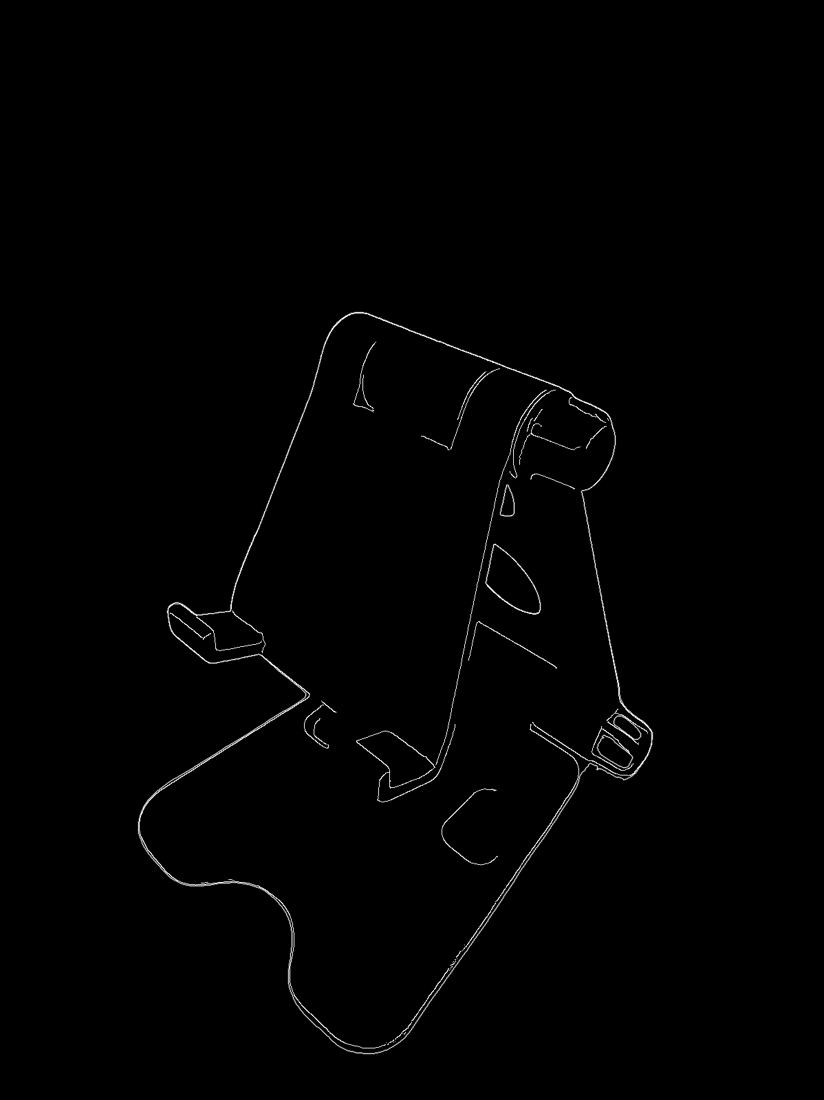
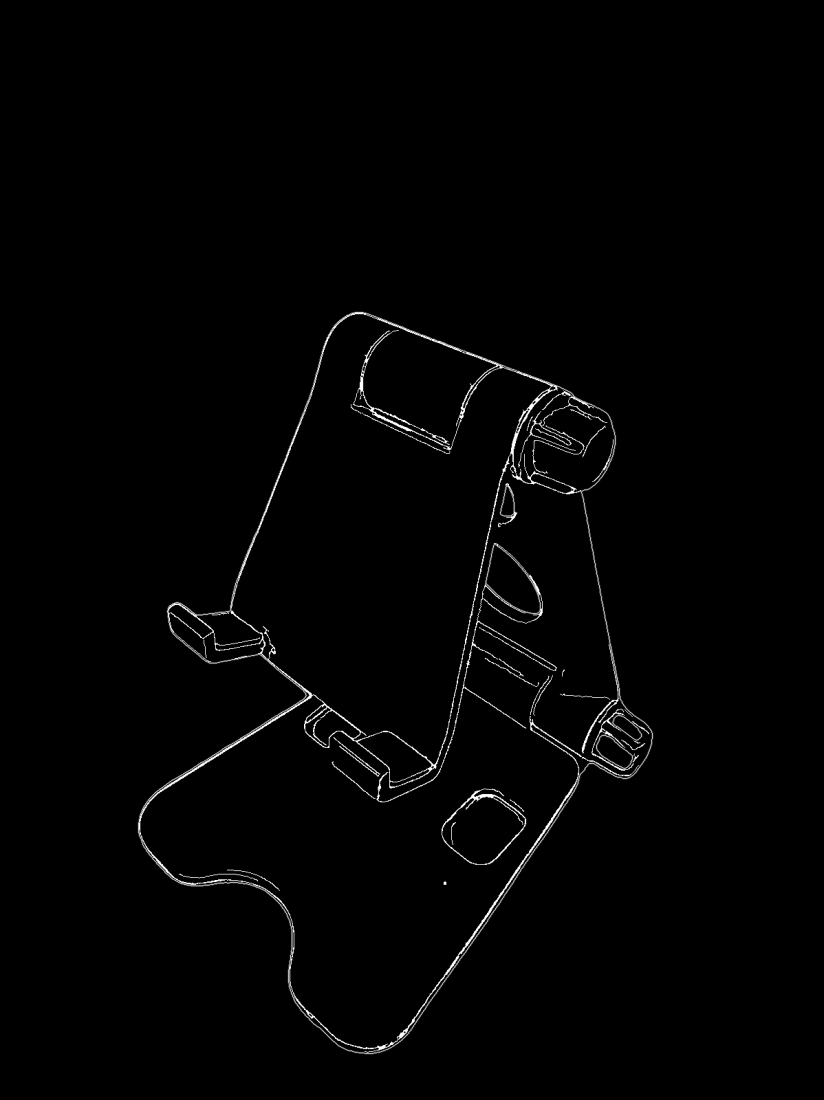
Draw outlines from brightness and color, and explain that in the README.
Each photo picks an edge sensitivity inside a safe range. Color lines stay more sensitive than brightness, and short specks are dropped. The README walks through Pillow, rembg with ISNet, and OpenCV in plain language. The sample outline screenshot matches those lines.

diff --git a/src/OutlineImage/outline.py b/src/OutlineImage/outline.py
@@ -21,6 +21,27 @@ OUTPUT_DIR_NAME = "output"
 DEFAULT_FORMAT = "png"
 MODEL_NAME = "isnet-general-use"
 MAX_EDGE = 1600
+# A soft alpha fringe is not part of the object.
+ALPHA_THRESHOLD = 24
+MIN_OUTLINE_AREA = 50
+# Each photo picks its own edge cut inside this band.
+# Flat plastic stays near the low end, so a seam still draws.
+# A scuffed or contrasty photo stays near the high end, so the scuffs stay out.
+# Color stays lower than brightness: a hole can match the object in
+# brightness and still differ in color. requirement-domain-outlineimage.
+BRIGHT_LOW_FLOOR = 14
+BRIGHT_LOW_CAP = 32
+BRIGHT_HIGH_FLOOR = 40
+BRIGHT_HIGH_CAP = 80
+COLOR_LOW_FLOOR = 6
+COLOR_LOW_CAP = 14
+COLOR_HIGH_FLOOR = 16
+COLOR_HIGH_CAP = 40
+BRIGHT_EDGE_SIGMA = 36
+COLOR_EDGE_SIGMA = 22
+BRIGHT_SPECK = 22
+COLOR_SPECK = 10
+EDGE_SPECK = 12
 
 
 def list_subfolders(folder):
@@ -207,12 +228,99 @@ def _image_stack():
     return cv2, np, Image, new_session, remove
 
 
+def _drop_short_edges(cv2, np, edges, min_area):
+    """Drop edge specks shorter than min_area. Real seams are longer."""
+    count, labels, stats, _centers = cv2.connectedComponentsWithStats(edges, 8)
+    kept = np.zeros_like(edges)
+    for index in range(1, count):
+        if stats[index, cv2.CC_STAT_AREA] >= min_area:
+            kept[labels == index] = 255
+    return kept
+
+
+def _foreground_mask(cv2, alpha):
+    """Binary object mask. A one-pixel close and open removes alpha pinholes."""
+    _level, mask = cv2.threshold(alpha, ALPHA_THRESHOLD, 255, cv2.THRESH_BINARY)
+    kernel = cv2.getStructuringElement(cv2.MORPH_ELLIPSE, (3, 3))
+    mask = cv2.morphologyEx(mask, cv2.MORPH_CLOSE, kernel)
+    mask = cv2.morphologyEx(mask, cv2.MORPH_OPEN, kernel)
+    return mask
+
+
+def _edge_limits(cv2, np, blurred, inner, low_floor, high_floor, low_cap, high_cap):
+    """Cut for this photo, kept inside the band.
+
+    OpenCV Canny compares its cuts to a Sobel gradient, so the same Sobel
+    on the foreground picks the cut. A quiet surface gets the low end.
+    A busy surface gets the high end.
+    """
+    gradient_x = cv2.Sobel(blurred, cv2.CV_32F, 1, 0, ksize=3)
+    gradient_y = cv2.Sobel(blurred, cv2.CV_32F, 0, 1, ksize=3)
+    magnitude = np.abs(gradient_x) + np.abs(gradient_y)
+    values = magnitude[inner > 0]
+    if values.size == 0:
+        return float(low_floor), float(high_floor)
+    high = float(np.percentile(values, 90))
+    low = high * 0.40
+    low = float(np.clip(low, low_floor, low_cap))
+    high = float(np.clip(max(high, low + 8.0), high_floor, high_cap))
+    return low, high
+
+
+def _channel_edges(cv2, np, plane, mask, inner, band, sigma, min_area):
+    """Canny on one channel. Outside the object is filled so the rim is not an edge."""
+    foreground = plane[mask > 0]
+    if foreground.size == 0:
+        return np.zeros(mask.shape, np.uint8)
+    filled = plane.copy()
+    filled[mask == 0] = int(np.median(foreground))
+    blurred = cv2.bilateralFilter(filled, d=5, sigmaColor=sigma, sigmaSpace=sigma)
+    low, high = _edge_limits(cv2, np, blurred, inner, *band)
+    found = cv2.Canny(blurred, low, high)
+    found = cv2.bitwise_and(found, inner)
+    return _drop_short_edges(cv2, np, found, min_area)
+
+
+def _detail_edges(cv2, np, bgr, mask):
+    """Inner lines from brightness and from color.
+
+    The cut follows this photo. A gray hole in a bright object can share a
+    brightness and still differ in color, so the color band stays lower.
+    """
+    lab = cv2.cvtColor(bgr, cv2.COLOR_BGR2LAB)
+    kernel = cv2.getStructuringElement(cv2.MORPH_ELLIPSE, (3, 3))
+    inner = cv2.erode(mask, kernel)
+    bright_band = (
+        BRIGHT_LOW_FLOOR, BRIGHT_HIGH_FLOOR, BRIGHT_LOW_CAP, BRIGHT_HIGH_CAP,
+    )
+    color_band = (
+        COLOR_LOW_FLOOR, COLOR_HIGH_FLOOR, COLOR_LOW_CAP, COLOR_HIGH_CAP,
+    )
+    edges = _channel_edges(
+        cv2, np, lab[:, :, 0], mask, inner,
+        bright_band, BRIGHT_EDGE_SIGMA, BRIGHT_SPECK,
+    )
+    for channel in (1, 2):
+        edges = cv2.bitwise_or(
+            edges,
+            _channel_edges(
+                cv2, np, lab[:, :, channel], mask, inner,
+                color_band, COLOR_EDGE_SIGMA, COLOR_SPECK,
+            ),
+        )
+    edges = cv2.morphologyEx(edges, cv2.MORPH_CLOSE, kernel)
+    edges = cv2.bitwise_and(edges, inner)
+    return _drop_short_edges(cv2, np, edges, EDGE_SPECK)
+
+
 def extract_detailed_outline(image_path, output_dir, session, output_format, stack):
     """
     General Purpose: Outer and inner outlines on a black canvas.
 
     output_format is an extension without a dot. The file name is
-    <stem>_detailed_outline.<ext> inside output_dir.
+    <stem>_detailed_outline.<ext> inside output_dir. Brightness edges and
+    color edges are both drawn. The cut follows the photo, so a part that
+    matches the object in brightness still appears.
     """
     cv2, np, Image, _new_session, remove = stack
     ext = output_format.lstrip(".").lower()
@@ -226,19 +334,16 @@ def extract_detailed_outline(image_path, output_dir, session, output_format, sta
     img_rgba = np.array(cutout)
     img_bgra = cv2.cvtColor(img_rgba, cv2.COLOR_RGBA2BGRA)
     height, width = img_bgra.shape[:2]
-    alpha = img_bgra[:, :, 3]
-    _threshold, fg_mask = cv2.threshold(alpha, 20, 255, cv2.THRESH_BINARY)
+    fg_mask = _foreground_mask(cv2, img_bgra[:, :, 3])
     silhouette_contours, _hierarchy = cv2.findContours(
         fg_mask, cv2.RETR_LIST, cv2.CHAIN_APPROX_SIMPLE
     )
     silhouette_contours = [
-        contour for contour in silhouette_contours if cv2.contourArea(contour) > 50
+        contour
+        for contour in silhouette_contours
+        if cv2.contourArea(contour) > MIN_OUTLINE_AREA
     ]
-    gray = cv2.cvtColor(img_bgra[:, :, :3], cv2.COLOR_BGR2GRAY)
-    gray = cv2.bitwise_and(gray, gray, mask=fg_mask)
-    blurred = cv2.bilateralFilter(gray, d=7, sigmaColor=50, sigmaSpace=50)
-    edges = cv2.Canny(blurred, threshold1=40, threshold2=120)
-    edges = cv2.bitwise_and(edges, edges, mask=fg_mask)
+    edges = _detail_edges(cv2, np, img_bgra[:, :, :3], fg_mask)
     canvas = np.zeros((height, width), dtype=np.uint8)
     canvas = cv2.bitwise_or(canvas, edges)
     cv2.drawContours(

diff --git a/tests/test_docs.py b/tests/test_docs.py
@@ -21,6 +21,7 @@ RELATED = (
 HEADINGS = (
     "Features",
     "Advantages",
+    "How an outline is made",
     "Quick Installation",
     "Usage",
     "Screenshots",

diff --git a/README.md b/README.md
@@ -29,6 +29,64 @@ On a terminal, starting it with no arguments opens a text menu. The menu does no
 2. **Built-in languages.** Row **4** lists thirteen languages: English, Simplified Chinese, Traditional Chinese, Spanish, Arabic, French, Portuguese, Russian, German, Japanese, Korean, Dutch, and Greek. The choice is saved for the next run. The note on row 1 follows the menu language.
 3. **Lifecycle and diagnostics.** `version-check`, `self-update`, `self-install`, and `self-uninstall` are menu rows **84**–**87** and typed verbs. `self-uninstall` on the command line needs `--force`. They call pip and do not use root. **system-log** (**3**) views a log, clears a log, and shows the log folder. **about** (**83**) stays in English.
 
+## How an outline is made
+
+An outline here is a new picture: white lines on a black background. The lines follow the shape of the object, and they also follow the parts you can see on it, such as a hole, a ridge, a seam, a pad, or a slot. The file is written in an `output` folder next to the photo. Its name is the photo's name plus `_detailed_outline`.
+
+Four libraries do this work. They install with the program. You do not open them yourself.
+
+**Pillow** opens the photo. A phone photo is often larger than the line drawing needs to be. If the long side is longer than 1600 pixels, Pillow shrinks the photo until that side is 1600. The shrink uses Lanczos resampling, which keeps a real edge from turning into a smear.
+
+**rembg** cuts the object out of the background. It uses a small neural network named **ISNet general-use** (`isnet-general-use`). The network looks at the photo and decides, pixel by pixel, which pixels belong to the object and which pixels are the table, the wall, or anything else behind it. The result is the same photo with a transparent background. The first conversion may download that model. Later conversions use the copy already on the computer.
+
+**NumPy** holds those pixels as a grid of numbers, so the next step can measure them.
+
+**OpenCV** finds the lines and draws them. It is a computer-vision library. The outer shape comes from the transparent cutout: OpenCV traces the boundary of the object and draws that boundary as a thin white line. A hole is traced too when the cutout is actually transparent there. A blob only a few pixels across is left out.
+
+### What the program looks for inside the object
+
+The program looks at color as well as brightness. A hole in bright plastic can be about as light as the plastic, so a test that only asks "is this darker?" misses the rim. The rim is still a different color.
+
+OpenCV converts the cutout into a color system called **CIELAB**, often shortened to LAB. Each pixel becomes three plain facts:
+
+- how light or dark it is (brightness)
+- where it sits between green and red
+- where it sits between blue and yellow
+
+The last two are color, kept apart from brightness. The program searches for a sharp change in brightness, then searches again for a sharp change in each color fact. A part that matches the object in brightness can still be drawn when its color differs. The color search is allowed to be more sensitive than the brightness search, because a same-brightness color change is often a real part, such as a hole rim or a seam. On the phone stand in the Screenshots section, that is what keeps the hole, the knob ridges, the pads, and the hinge seam in the drawing.
+
+Before that search, the area outside the object is filled with a typical color of the object. The outer shape is then drawn once, from the cutout, and the inner search stays one pixel inside the object so it does not draw that same rim a second time.
+
+The surface is smoothed a little with a **bilateral filter**. That filter softens grain, dust, and the fine texture of the material, and it tries to leave a real seam sharp. Brightness is smoothed a bit more than color.
+
+### How sensitive each photo is
+
+The line finder is the **Canny** method in OpenCV. Canny keeps a pixel when the change there is strong enough, and it links those pixels into a line. Two numbers tell it what "strong enough" means. A lower pair draws faint lines. A higher pair ignores them.
+
+One pair for every photo is a poor fit. A plain surface needs a sensitive setting, or a hinge seam disappears. A scratched photo needs a cautious setting, or every scuff becomes a line.
+
+Each photo therefore picks its own pair, and the pick stays inside a safe range. OpenCV's **Sobel** filter measures how fast the picture changes from one pixel to the next. The program looks at those measurements on the object only, and it takes a high point in that list: the 90th percentile, stronger than about nine tenths of the pixels and weaker than the strongest scratches. The high cut starts from that point. The low cut is forty percent of the high cut. Both cuts are then clipped so they cannot leave the safe range. A quiet surface lands on the sensitive end, so a faint seam still appears. A busy or high-contrast photo lands on the cautious end, so scuffs stay out. The safe range for color sits lower than the safe range for brightness.
+
+### Cleaning the lines
+
+A real seam is a run of pixels. A speck of dust is a few pixels. OpenCV groups touching edge pixels, which are called connected components, and drops a group that is shorter than a real seam. That cleanup runs for the brightness lines, for the color lines, and once more after the lines are combined.
+
+A closing step then fills a one-pixel break, so a seam does not fall into dashes. Tiny holes in the cutout's transparency are filled the same way, and tiny spikes of transparency are removed, so a speck of background does not become a fake hole. Pixels that are only faintly transparent are treated as outside the object.
+
+The white lines and the outer shape are combined on a black picture and saved. The usual file is PNG.
+
+### What was changed so the lines improved
+
+The first drawing looked only at brightness. It used one Canny setting for every photo, with cuts at 40 and 120, after a stronger smooth. On a bright object, a hole, a knob ridge, a hinge seam, or a pad can be as light as the plastic around it. Those parts dropped out. Small dirt marks could remain, because short specks were kept.
+
+Three changes are what the program uses now.
+
+1. **Color as well as brightness.** The two LAB color facts are searched too, and their safe range stays more sensitive than brightness. A part that matches the plastic in brightness still gets a line when its color differs.
+2. **A sensitivity that follows the photo.** The Sobel measurement replaces the single pair of cuts. A plain surface is more sensitive. A scratched surface is less sensitive. Both stay inside the safe range.
+3. **Specks are thrown away.** Short edge fragments are dropped. Dust and a one-pixel sparkle stay out of the drawing. A one-pixel gap in a real seam is closed.
+
+A line is drawn where the photo itself changes. When a rim matches the plastic in both brightness and color, the photo has no edge there, and a short gap can remain. The program leaves that gap. Guessing a circle or an oval on those gaps was tried and was not kept: a guessed oval replaced a real slot and cut across real ridges. The drawing stays with the edges the photo actually has.
+
 ## Quick Installation
 
 **Python dependencies:** `ChronicleLogger>=1.3.1`, `numpy>=2.3.0`, `Pillow>=12.1.0`, `opencv-python-headless>=5.0.0.93`, and `rembg>=2.0.85` (required). Pip installs them with OutlineImage. The first outline run may download the `isnet-general-use` model. No external media tool is required.
@@ -363,4 +421,4 @@ MIT — see [`LICENSE.md`](./LICENSE.md). Also declared in `pyproject.toml`.
 
 ## Last Update
 
-2026-10-05 — **1.0.0**. The public source is `https://github.com/cloudgen/OutlineImage`. The package name is **OutlineImage** and the console script is `outline-image`. `outline` writes a detailed outline image for each picture in a folder. The default file is PNG in that folder's `output` directory. Menu row 1 lists **1** current folder, each subfolder, and **0** back, then runs that conversion. The Screenshots section shows captures of this program. Version badge matches `pyproject.toml` and `__version__`. `ChronicleLogger>=1.3.1`, `numpy>=2.3.0`, `Pillow>=12.1.0`, `opencv-python-headless>=5.0.0.93`, and `rembg>=2.0.85` are required.
+2026-10-07 — **1.0.0**. The public source is `https://github.com/cloudgen/OutlineImage`. The package name is **OutlineImage** and the console script is `outline-image`. `outline` writes a detailed outline image for each picture in a folder. The default file is PNG in that folder's `output` directory. The lines come from brightness and from color, short specks are dropped, and each photo picks its own sensitivity inside a safe range. How an outline is made explains that method in plain language. Menu row 1 lists **1** current folder, each subfolder, and **0** back, then runs that conversion. The Screenshots section shows captures of this program. Version badge matches `pyproject.toml` and `__version__`. `ChronicleLogger>=1.3.1`, `numpy>=2.3.0`, `Pillow>=12.1.0`, `opencv-python-headless>=5.0.0.93`, and `rembg>=2.0.85` are required.

diff --git a/docs/requirements/requirement-python-readme.md b/docs/requirements/requirement-python-readme.md
@@ -1,5 +1,5 @@
 **file**: docs/requirements/requirement-python-readme.md
-**Status**: Active (Version 1.0.3)
+**Status**: Active (Version 1.0.4)
 **Area**: python
 **Key**: `requirement-python-readme`
 **Philosophy**: CIAO **v2.10.2** / CIAO-Lite (Caution • Intentional • Anti-fragile • Over-engineered / Over-protect)
@@ -55,6 +55,7 @@ Each behavioral sentence **MUST** match its owner and **MUST NOT** restate that 
 | Claim in the document | Owner |
 |-----------------------|--------|
 | Folder conversion, default png, `<folder>/output` | `requirement-domain-outlineimage` |
+| How an outline is drawn: Pillow, rembg `isnet-general-use`, OpenCV brightness and color, a sensitivity per photo, speck removal, and no guessed shape | `requirement-domain-outlineimage` |
 | No encoder | `requirement-video-ffmpeg-pipeline` is Retired |
 | Menu picture, path row, clock, row numbers | `requirement-python-tui` |
 | Thirteen languages and what stays English | `requirement-python-cli-language` |
@@ -108,12 +109,13 @@ The first-row sentence in the user document **MUST** name the current directory 
 
 **Opening:** write a detailed outline image for each picture in a folder. The default file is PNG, in an `output` folder next to those pictures. On a terminal with no arguments, the text menu opens. The menu does not convert images by itself and does not call pip.
 
-**Sections, in order.** Advantages is inserted after Features. Screenshots is inserted after Usage. The other headings keep the existing kit order.
+**Sections, in order.** Advantages is inserted after Features. How an outline is made is inserted after Advantages. Screenshots is inserted after Usage. The other headings keep the existing kit order.
 
 | Heading | What this document must keep | Owner of the behavior |
 |---------|------------------------------|------------------------|
 | Features | Text menu: outline, system-log, language, self-management, Exit. Path and a local clock on the first row. Row 1 lists the current folder, each subfolder, and back. system-log is **3**. language is **4**. self-management is **8**. Verbs `help`, `version`, `about`, `outline`, `self-install`, `version-check`, `self-update`, `self-uninstall`. Checkout entry `./convert.py` | Peers in §2.2. The path-row sentence is the clock rule in §2.2 |
 | Advantages | The four parts and the comparison table below | This file for the contrast. Peers in §2.2 for the behavior |
+| How an outline is made | Plain language for the method in `requirement-domain-outlineimage`: Pillow shrinks the long side to 1600, rembg with `isnet-general-use` cuts the object out, NumPy holds the pixels, and OpenCV draws the outer shape plus inner lines from brightness and from color (CIELAB). Canny uses a Sobel measurement so each photo picks a sensitivity inside a safe range. Color stays more sensitive than brightness. Short specks are dropped. A rim that matches the object in brightness and color can keep a short gap. A guessed circle or oval is not used | `requirement-domain-outlineimage` for the method. This file for the section |
 | Quick Installation | `ChronicleLogger>=1.3.1`, `numpy>=2.3.0`, `Pillow>=12.1.0`, `opencv-python-headless>=5.0.0.93`, and `rembg>=2.0.85`. `pip install OutlineImage`. No external media tool. Checkout uses a venv and `pip install -e .`. The fenced text menu (front, system-log, language, self-management) stays in this section and shows row 1 **outline** and version **1.0.0** | `requirement-python-dependency-management`, `requirement-runtime-prerequisites`, `requirement-python-packaging`, `requirement-python-tui` |
 | Usage | Menu versus typed verbs. `outline` converts a folder and does not draw the menu. Menu row 1 lists the current folder, each subfolder, and back. Default PNG in that folder's `output` directory. No terminal: empty argv prints help and returns 0. `self-uninstall` needs `--force`. No sudo | `requirement-python-cli-interface`, `requirement-domain-outlineimage`, `requirement-python-tui` |
 | Screenshots | Lead: each heading is the file name, and the paragraph is what that picture shows. Package **1.0.0**. The paragraph and the image alt are the catalog below. The menu pictures are captures of this program. Row 1 is **outline** | This file |
@@ -122,7 +124,7 @@ The first-row sentence in the user document **MUST** name the current directory 
 | Related Projects | The eight lines below, in that order, each with one sentence | This file |
 | Contributing | Keep product law in sync. The conversion lives in `src/OutlineImage/outline.py`. Version strings stay together | `requirement-python-coding-style`, `requirement-python-packaging` |
 | License | MIT, link `LICENSE.md`, and that file exists | `requirement-python-packaging` |
-| Last Update | Names package **1.0.0**, the public source `https://github.com/cloudgen/OutlineImage`, the outline conversion, and that the Screenshots section shows captures of this program | This file for the line. `__version__` for the string |
+| Last Update | Names package **1.0.0**, the public source `https://github.com/cloudgen/OutlineImage`, the outline conversion, that lines use brightness and color with a per-photo sensitivity, and that the Screenshots section shows captures of this program | This file for the line. `__version__` for the string |
 
 **Related projects, in this order.** The first two are this program. Each line is one sentence. Do not add an install recipe.
 
@@ -211,7 +213,7 @@ The documented install is for this login. **This requirement:** the user documen
 
 ## 5. Definition of done
 
-1. `README.md` has the sections in §2.5, in that order, including Advantages after Features and Screenshots after Usage.
+1. `README.md` has the sections in §2.5, in that order, including Advantages after Features, How an outline is made after Advantages, and Screenshots after Usage.
 2. The Version badge token matches the package string.
 3. The Screenshots section links every PNG in `screenshots/`, in catalog order, including `source-photo.png` and `outline-result.png`. Each image destination is an absolute `https` URL. Each heading is the basename. Each paragraph and each image alt are the catalog cells for that file.
 4. The path-row sentence names the local clock.
@@ -255,9 +257,10 @@ The documented install is for this login. **This requirement:** the user documen
 | 2026-10-04 | Active 1.0.1 | About and self-management pictures match the new page. Other menu pictures still show **1.0.4**. Package string is **1.0.5** |
 | 2026-10-05 | Active 1.0.2 | Quick Installation names the five pip floors. Product version stays **1.0.0** |
 | 2026-10-05 | Active 1.0.3 | Public source is `https://github.com/cloudgen/OutlineImage`. Twenty captures of this program replace the previous-product pictures. Product version stays **1.0.0** |
+| 2026-10-07 | Active 1.0.4 | How an outline is made explains the drawing method in plain language. Product version stays **1.0.0** |
 
 ---
 
-**Last Updated**: 2026-10-05
+**Last Updated**: 2026-10-07
 **Owner**: project maintainers
 **Alignment**: Registry `docs/requirements/index.md`; **CIAO** (https://github.com/cloudgen/ciao); CIAO-Lite (https://github.com/cloudgen/ciao-lite).

diff --git a/docs/requirements/requirement-domain-outlineimage.md b/docs/requirements/requirement-domain-outlineimage.md
@@ -1,5 +1,5 @@
 **file**: docs/requirements/requirement-domain-outlineimage.md
-**Status**: Active (Version 1.3.2)
+**Status**: Active (Version 1.3.3)
 **Area**: domain
 **Key**: `requirement-domain-outlineimage`
 **Philosophy**: CIAO **v2.10.2** / CIAO-Lite (Caution • Intentional • Anti-fragile • Over-engineered / Over-protect)
@@ -66,6 +66,14 @@ Supported inputs, top level only, are `.webp`, `.png`, `.jpg`, and `.jpeg`. Subf
 **Missing folder or bad format:** return 1 and a next-step line. A failure on one image **MUST** be reported and **MUST NOT** stop the remaining images. Any image failure makes the exit code 1. The last line of a run that wrote or tried to write is `Outlines saved in:` plus the output directory.
 
 **Model:** `isnet-general-use`. The longest edge used for the conversion is 1600. The model loads only when the folder has a supported image. The first such run may download that model. A missing image library **MUST** name the pip next step and return 1.
+
+**How the lines are drawn.** This file owns the method. Pillow opens the picture and, when the longest side is longer than 1600, shrinks it. rembg with `isnet-general-use` cuts the object out of the background. OpenCV traces that cutout for the outer shape. A hole is traced when the cutout is transparent there. A very small blob is left out.
+
+Inner lines come from brightness and from color. The cutout is split into lightness and two color channels (CIELAB). A part that matches the object in brightness can still be drawn when its color differs. The color pass stays more sensitive than the brightness pass. The area outside the object is filled with a typical object color before the search, and the search stays inside the object, so the outer shape is drawn once.
+
+Each photo picks its own sensitivity inside a fixed safe range. The range numbers live next to `MAX_EDGE` in `outline.py`. They are not frozen in this file. The program measures how much the foreground already changes from pixel to pixel (a Sobel gradient, then a high percentile of that change). A quiet surface uses the sensitive end of the range, so a faint seam still appears. A scratched or high-contrast photo uses the cautious end, so scuffs stay out. Short specks are dropped. One-pixel breaks in a real seam are closed.
+
+The program draws a line where the photo itself changes. It **MUST NOT** invent a circle, an ellipse, or any other guessed shape to close a gap. A rim that matches the object in both brightness and color may keep a short gap. The root user document explains this method in plain language. The words there match this paragraph.
 
 **Waiting sentence:** This file owns the words. Before converting images, and before downloading the model when that download is about to start, the operator sees one English sentence: `{choice} has been selected. {process} takes time to finish.` The process words are `Converting images` and `Downloading the AI model`. Those process words stay English when the menu language is Chinese. The choice token is the typed verb `outline`, the script name `convert.py`, or the folder-board short: `current` when the pick is `.`, otherwise the child directory name.
 
@@ -172,6 +180,7 @@ On Termux, Git Bash, Windows cmd, or the same class, `outline` and the menu run 
 6. Import the image stack when the chosen folder has no supported image.
 7. Start a conversion or a model fetch without the waiting sentence in pillar A, show a download sentence when the weights file is already a file, show either sentence for an empty folder, a missing folder, a rejected format, or a failed output-directory create, or store the sentence in a module-level constant.
 8. Leave the please-wait bullet on the result, show it when no waiting sentence was shown, or store that bullet line in a module-level constant.
+9. Replace a detected edge with a fitted circle or ellipse, or draw a guessed shape across a gap. A rim that matches the object in both brightness and color may keep a short gap.
 
 **Violating this rule is a critical domain regression.**
 
@@ -229,9 +238,10 @@ On Termux, Git Bash, Windows cmd, or the same class, `outline` and the menu run 
 | 2026-10-05 | Active 1.3.0 | The domain is a detailed outline image. Typed `outline` and menu row 1. Product version **1.0.0** |
 | 2026-10-05 | Active 1.3.1 | Waiting sentence before converting images and before a model download. Product version stays **1.0.0** |
 | 2026-10-05 | Active 1.3.2 | A flashing `• please wait` bullet stays while that process runs and is removed when it finishes. Product version stays **1.0.0** |
+| 2026-10-07 | Active 1.3.3 | Lines come from brightness and color. Each photo picks a sensitivity inside a safe range. Short specks are dropped. A guessed circle or ellipse is refused. Product version stays **1.0.0** |
 
 ---
 
-**Last Updated**: 2026-10-05
+**Last Updated**: 2026-10-07
 **Owner**: project maintainers
 **Alignment**: Registry `docs/requirements/index.md`; **CIAO** (https://github.com/cloudgen/ciao); CIAO-Lite (https://github.com/cloudgen/ciao-lite).

diff --git a/docs/requirements/index.md b/docs/requirements/index.md
@@ -3,12 +3,12 @@
 **Product:** OutlineImage (Python CLI — text menu on a terminal; `outline` writes a detailed outline image for each picture in a chosen folder, default PNG in that folder's `output` directory; menu row 1 picks the current folder or a subfolder)
 **Workspace state:** Specialized product law (left genesis); **software-development** class; **pip/local package** install (not shell online Type O).
 **Product version:** **1.0.0** (align `pyproject.toml`, `__init__.__version__`, root `README.md` Version badge)
-**Updated:** 2026-10-05
+**Updated:** 2026-10-07
 
 | ID / key | Title | Area | Status | Path | Updated |
 |----------|-------|------|--------|------|---------|
 | requirement-class-software-dev | Software-development class law + residual stack (Python, setuptools) | class | Active | `requirement-class-software-dev.md` | 2026-10-05 |
-| requirement-domain-outlineimage | Domain surface SSOT (typed `outline`, folder board on menu row 1, help, about, waiting sentence and a flashing please-wait bullet before converting images and before a model download) | domain | Active | `requirement-domain-outlineimage.md` | 2026-10-05 |
+| requirement-domain-outlineimage | Domain surface SSOT (typed `outline`, folder board on menu row 1, help, about, waiting sentence and a flashing please-wait bullet before converting images and before a model download; lines from brightness and color, sensitivity per photo, no guessed shape) | domain | Active | `requirement-domain-outlineimage.md` | 2026-10-07 |
 | requirement-python-about | About page: identity, host check, star box. No `--json` | python | Active | `requirement-python-about.md` | 2026-10-05 |
 | requirement-video-ffmpeg-pipeline | Retired. No encoder, no concat, no media publish | video | Retired | `requirement-video-ffmpeg-pipeline.md` | 2026-10-05 |
 | requirement-python-cli-interface | CLI entry, typed verbs, empty-argv menu on a terminal and help off a terminal. `outline` and `./convert.py` print the waiting sentence, flash please wait on a terminal, and erase that bullet when the work finishes | python | Active | `requirement-python-cli-interface.md` | 2026-10-05 |
@@ -20,7 +20,7 @@
 | requirement-python-packaging | `pyproject.toml` / version / console script. Pip strings point at the dependency file | python | Active | `requirement-python-packaging.md` | 2026-10-05 |
 | requirement-python-dependency-management | Pip strings: `ChronicleLogger>=1.3.1`, `numpy>=2.3.0`, `Pillow>=12.1.0`, `opencv-python-headless>=5.0.0.93`, `rembg>=2.0.85`. No GUI `opencv-python`. No menu wheel | python | Active | `requirement-python-dependency-management.md` | 2026-10-05 |
 | requirement-python-project-structure | Repository and `src/OutlineImage` layout (running tree vs target map) | python | Active | `requirement-python-project-structure.md` | 2026-10-04 |
-| requirement-python-readme | Root user document: sections, badges, picture catalog, related projects | python | Active | `requirement-python-readme.md` | 2026-10-05 |
+| requirement-python-readme | Root user document: sections, badges, picture catalog, related projects, plain-language outline method | python | Active | `requirement-python-readme.md` | 2026-10-07 |
 | requirement-python-error-handling | Fail-closed errors; source-safe cleanup; console sentences stay | python | Active | `requirement-python-error-handling.md` | 2026-10-04 |
 | requirement-runtime-prerequisites | Pip image stack + required ChronicleLogger; no host FFmpeg; no root auto-install | runtime | Active | `requirement-runtime-prerequisites.md` | 2026-10-05 |
 

diff --git a/CHANGELOG.md b/CHANGELOG.md
@@ -3,6 +3,13 @@
 All notable changes to **OutlineImage** are documented here.  
 Version SSOT: `pyproject.toml` + `src/OutlineImage/__init__.__version__`.
 
+## [Unreleased]
+
+### Changed
+
+- An outline uses brightness and color, drops short specks, and picks a sensitivity for each photo inside a safe range. A guessed circle or oval is not drawn.
+- The README section **How an outline is made** explains that method in plain language. Package version stays **1.0.0**.
+
 ## [1.0.0] - 2026-10-05
 
 ### Added
